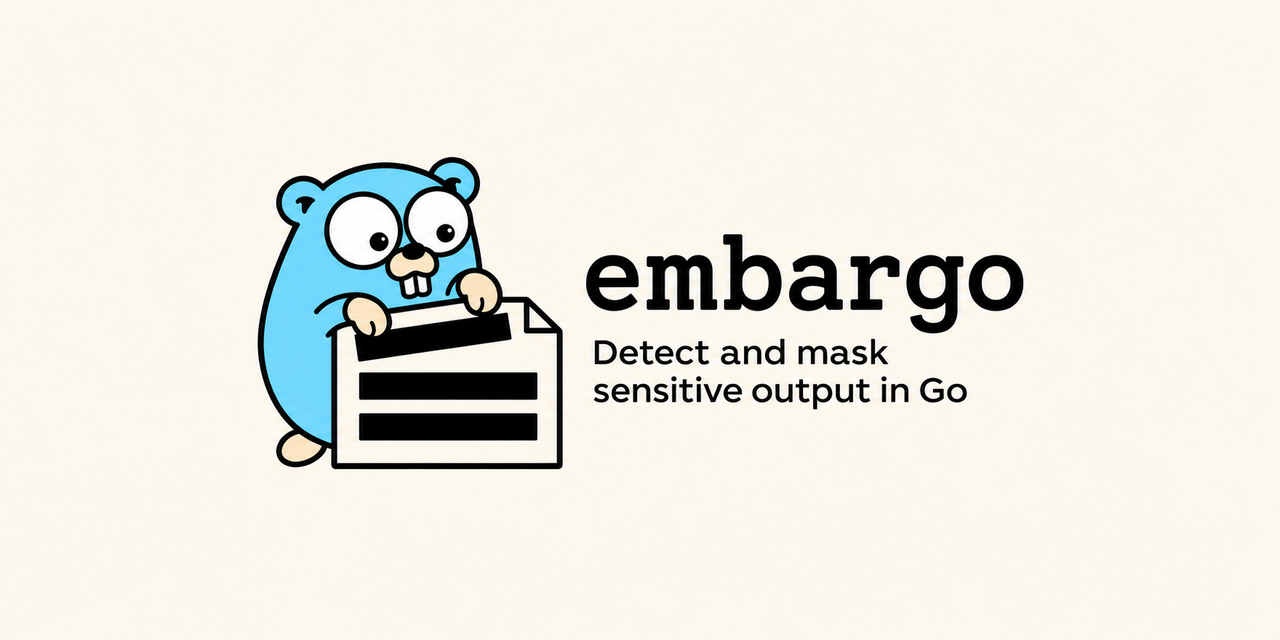
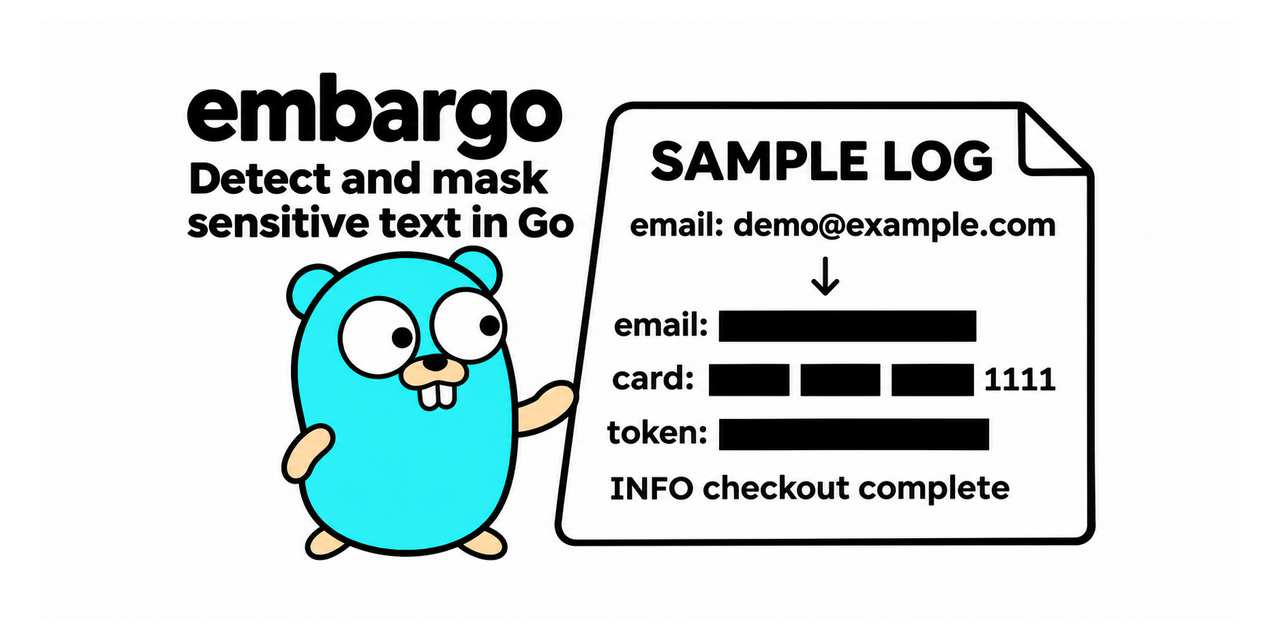
docs: clarify redaction in project artwork

Changed region(s): [[0.125, 0.0938, 0.875, 0.875]]

diff --git a/doc/images/ATTRIBUTION.md b/doc/images/ATTRIBUTION.md
@@ -2,6 +2,6 @@
 
 The Go gopher was designed by Renee French and is licensed under CC BY 4.0: https://go.dev/blog/gopher and https://creativecommons.org/licenses/by/4.0/.
 
-The embargo images are original adaptations generated with image_gen on 2026-11-15: a new pose with a document and three redaction bars, embargo lettering, and an OGP subtitle. They do not use the official Go logo wordmark or imply official affiliation. The gopher adaptations are distributed under CC BY 4.0; the software license is unchanged.
+The embargo images are original adaptations generated with image_gen and redesigned on 2026-11-15: a gopher presenting a document with readable field labels and blacked-out values, embargo lettering, and an OGP subtitle. The OGP shows a sample email before and after redaction, a masked test card with the suffix 1111, a masked token, and readable log context. The visible email uses example.com; no real secrets are shown. The matching logo simplifies the document to labeled email and token redactions. They do not use the official Go logo wordmark or imply official affiliation. The gopher adaptations are distributed under CC BY 4.0; the software license is unchanged.
 
-logo.png is 1536x768, logo-small.png is 640x320, and ogp.png is 1280x640. OGP upload remains the repository owner’s action.
+logo.png is 1536x960, logo-small.png is 640x400, and ogp.png is 1280x640. The README displays the small logo at 320x200. The OGP keeps the complete artwork inside generous margins for cropped social previews. OGP upload remains the repository owner’s action.

diff --git a/README.md b/README.md
@@ -9,7 +9,7 @@
 ![Coverage](https://raw.githubusercontent.com/nao1215/octocovs-central-repo/main/badges/nao1215/embargo/coverage.svg)
 [![OpenSSF Scorecard](https://api.scorecard.dev/projects/github.com/nao1215/embargo/badge)](https://scorecard.dev/viewer/?uri=github.com/nao1215/embargo)
 
-<img src="doc/images/logo-small.png" alt="embargo" width="320">
+<img src="doc/images/logo-small.png" alt="embargo gopher with redacted email and token values" width="320">
 
 embargo detects and masks sensitive text in Go programs, logs and test output.
 
